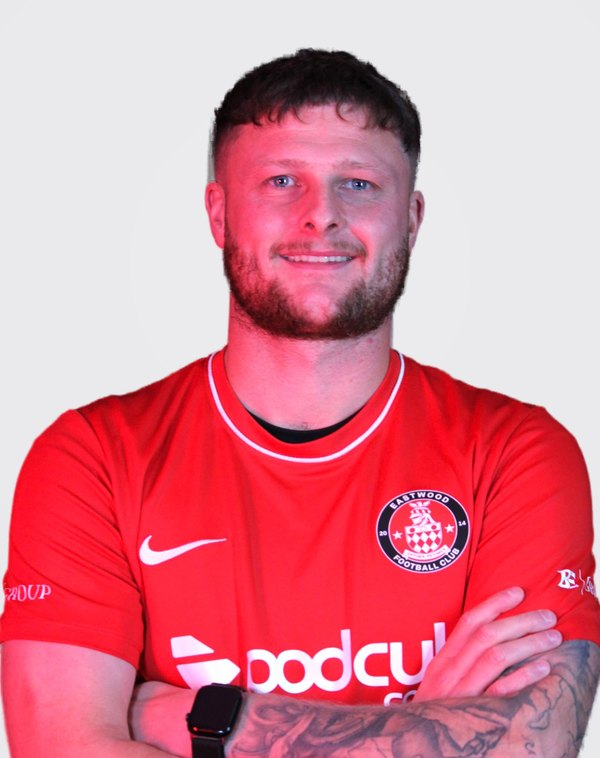
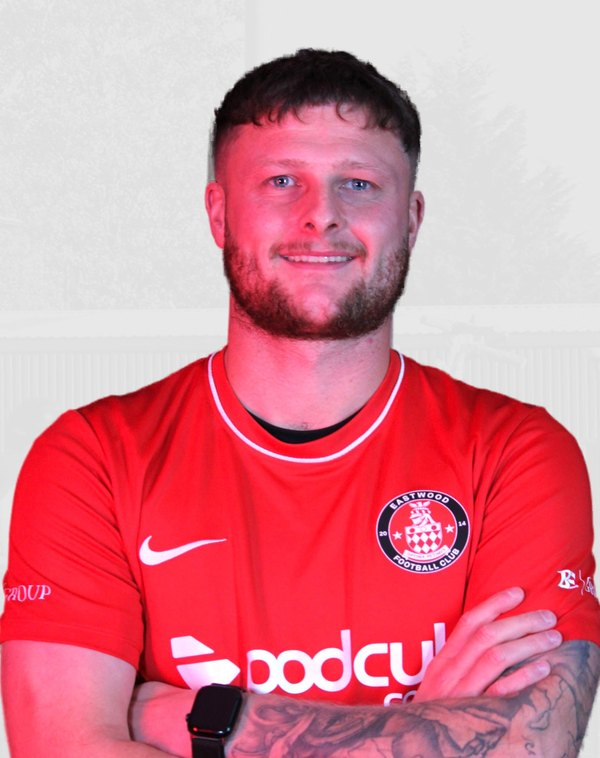
3.67.0: every squad photo in four finishes -- transparent, black, white and on the textured Coronation Park backdrop
assets/players/{transparent,black,white,textured}/<name>, plus the squad
card size, which now uses the textured backdrop. ew_player_photo(name,
style) gives the address of any of them for future blocks.

Claude-Session: https://claude.ai/code/session_01Vo2TvrgiL9mTjhphB5yHWp

diff --git a/parts/player-photos.php b/parts/player-photos.php
@@ -1,0 +1,47 @@
+<?php
+/**
+ * Player photographs, in every finish, for anything on the site to use.
+ *
+ * Each first-team player shot in the studio has the same picture in four
+ * finishes under assets/players/, named after him as the squad list
+ * spells him (Luke Rawson → luke-rawson):
+ *
+ *   transparent/<name>.png  the cut-out on nothing, for laying over any background
+ *   black/<name>.jpg        on near-black (#111111)
+ *   white/<name>.jpg        on white
+ *   textured/<name>.jpg     on the greyed Coronation Park backdrop the home page
+ *                           shirt panel uses
+ *   <name>.jpg              the textured one at squad-card size (600×758),
+ *                           which the squad page shows
+ *
+ * The four finishes are 1200×1516 (the squad card's shape, at twice its
+ * size) apart from the cut-out, which keeps the player's own outline.
+ *
+ * @package eastwood-fwp
+ */
+
+if ( ! defined( 'ABSPATH' ) ) {
+	exit;
+}
+
+/** A player's name as his photo files are named. */
+function ew_player_slug( $name ) {
+	return trim( preg_replace( '/[^a-z0-9]+/', '-', strtolower( (string) $name ) ), '-' );
+}
+
+/**
+ * The address of a player's photo in one finish, or '' if he has none yet.
+ *
+ * @param string $name  As the squad list has him, e.g. 'Luke Rawson'.
+ * @param string $style 'transparent', 'black', 'white', 'textured' or 'card'.
+ */
+function ew_player_photo( $name, $style = 'card' ) {
+	$slug = ew_player_slug( $name );
+	$dir  = dirname( __DIR__ ) . '/assets/players/';
+	$rel  = 'card' === $style ? $slug . '.jpg'
+		: ( 'transparent' === $style ? 'transparent/' . $slug . '.png' : sanitize_key( $style ) . '/' . $slug . '.jpg' );
+	if ( '' === $slug || ! file_exists( $dir . $rel ) ) {
+		return '';
+	}
+	return plugins_url( 'assets/players/' . $rel, dirname( __DIR__ ) . '/eastwood-fwp.php' ) . '?v=' . EW_FWP_VERSION;
+}

diff --git a/eastwood-fwp.php b/eastwood-fwp.php
@@ -2,7 +2,7 @@
 /**
  * Plugin Name: Eastwood — club data
  * Description: Everything the Eastwood site needs from outside WordPress: the Football Web Pages proxy (live fixtures, results, league table and full match detail), the club-badge store, and the importer that pulls the club's news across from Pitchero.
- * Version: 3.66.2
+ * Version: 3.67.0
  * Author: Eastwood FC
  *
  * INSTALL: a normal plugin at wp-content/plugins/eastwood-fwp/. Updates come
@@ -3929,7 +3929,7 @@ add_action( 'wp_enqueue_scripts', 'ew_teams_assets', 20 );
  * while the header reached 2.37.0, so the site was offered a version
  * older than the one it had and seven releases never landed.
  */
-const EW_FWP_VERSION = '3.66.2';
+const EW_FWP_VERSION = '3.67.0';
 
 /*
  * Parts loader.
